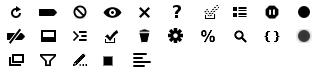
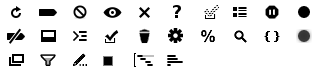
Web Inspector: make 'glue asynchronous events' optional. https://bugs.webkit.org/show_bug.cgi?id=79240
Reviewed by Yury Semikhatsky.

* English.lproj/localizedStrings.js:
* inspector/front-end/Images/statusbarButtonGlyphs.png:
* inspector/front-end/TimelinePanel.js:
(WebInspector.TimelinePanel.prototype.get statusBarItems):
(WebInspector.TimelinePanel.prototype._createStatusbarButtons):
(WebInspector.TimelinePanel.prototype._glueParentButtonClicked):
(WebInspector.TimelinePanel.prototype._toggleStartAtZeroButtonClicked):
(WebInspector.TimelinePanel.prototype._repopulateRecords):
(WebInspector.TimelinePanel.prototype._findParentRecord):
(WebInspector.TimelinePanel.prototype._innerAddRecordToTimeline):
(WebInspector.TimelinePanel.prototype.sidebarResized):
(WebInspector.TimelineCalculator.prototype.computeBarGraphPercentages):
(WebInspector.TimelineCalculator.prototype.computeBarGraphWindowPosition):
(WebInspector.TimelineRecordGraphRow):
(WebInspector.TimelineRecordGraphRow.prototype.update):
(WebInspector.TimelinePanel.FormattedRecord.prototype._calculateAggregatedStats):
* inspector/front-end/timelinePanel.css:
(.glue-async-status-bar-item .glyph):
(.timeline-start-at-zero-status-bar-item .glyph):

git-svn-id: svn://svn.chromium.org/blink/trunk@108507 bbb929c8-8fbe-4397-9dbb-9b2b20218538

diff --git a/Source/WebCore/inspector/front-end/TimelinePanel.js b/Source/WebCore/inspector/front-end/TimelinePanel.js
@@ -203,10 +203,12 @@ WebInspector.TimelinePanel.prototype = {
 
     get statusBarItems()
     {
-        var statusBarItems = [ this.toggleFilterButton.element, this.toggleTimelineButton.element ];
+        var statusBarItems = [ this.toggleFilterButton.element, this.toggleTimelineButton.element, this.clearButton.element, this.garbageCollectButton.element, this._glueParentButton.element ];
+
         if (WebInspector.experimentsSettings.timelineStartAtZero.isEnabled())
             statusBarItems.push(this.toggleStartAtZeroButton.element);
-        statusBarItems.push(this.garbageCollectButton.element, this.clearButton.element, this.statusBarFilters);
+
+        statusBarItems.push(this.statusBarFilters);
         return statusBarItems;
     },
 
@@ -270,6 +272,10 @@ WebInspector.TimelinePanel.prototype = {
 
         this.recordsCounter = document.createElement("span");
         this.recordsCounter.className = "timeline-records-counter";
+
+        this._glueParentButton = new WebInspector.StatusBarButton(WebInspector.UIString("Glue asynchronous events to causes"), "glue-async-status-bar-item");
+        this._glueParentButton.toggled = true;
+        this._glueParentButton.addEventListener("click", this._glueParentButtonClicked, this);
 
         this.statusBarFilters = document.createElement("div");
         this.statusBarFilters.className = "status-bar-items";
@@ -456,16 +462,28 @@ WebInspector.TimelinePanel.prototype = {
         ProfilerAgent.collectGarbage();
     },
 
+    _glueParentButtonClicked: function()
+    {
+        this._glueParentButton.toggled = !this._glueParentButton.toggled;
+        this._repopulateRecords();
+    },
+
     _toggleStartAtZeroButtonClicked: function()
     {
         var toggled = !this.toggleStartAtZeroButton.toggled
+        this._glueParentButton.disabled = toggled;
         this.toggleStartAtZeroButton.toggled = toggled;
         this._calculator = toggled ? new WebInspector.TimelineStartAtZeroCalculator() : new WebInspector.TimelineCalculator();
+        this._repopulateRecords();
+        this._overviewPane.setStartAtZero(toggled);
+    },
+
+    _repopulateRecords: function()
+    {
         this._resetPanel();
         var records = this._model.records;
         for (var i = 0; i < records.length; ++i)
             this._innerAddRecordToTimeline(records[i], this._rootRecord);
-        this._overviewPane.setStartAtZero(toggled);
         this._scheduleRefresh(false);
     },
 
@@ -485,6 +503,9 @@ WebInspector.TimelinePanel.prototype = {
 
     _findParentRecord: function(record)
     {
+        if (!this._glueParentButton.toggled)
+            return null;
+
         var recordTypes = WebInspector.TimelineAgent.RecordType;
         var parentRecord;
         if (record.type === recordTypes.ResourceReceiveResponse ||
@@ -559,7 +580,6 @@ WebInspector.TimelinePanel.prototype = {
             record = formattedRecord;
             do {
                 var parent = record.parent;
-                parent._cpuTime += formattedRecord._cpuTime;
                 if (parent._lastChildEndTime < record._lastChildEndTime)
                     parent._lastChildEndTime = record._lastChildEndTime;
                 for (var category in formattedRecord._aggregatedStats)
@@ -582,7 +602,7 @@ WebInspector.TimelinePanel.prototype = {
         this._scheduleRefresh(false);
         this._overviewPane.sidebarResized(width);
         // Min width = <number of buttons on the left> * 31
-        this.statusBarFilters.style.left = Math.max(9 * 31, width) + "px";
+        this.statusBarFilters.style.left = Math.max((this.statusBarItems.length + 2) * 31, width) + "px";
 
         if (this._memoryStatistics)
             this._memoryStatistics.setSidebarWidth(width);
@@ -910,8 +930,7 @@ WebInspector.TimelineCalculator.prototype = {
         var start = (record.startTime - this.minimumBoundary) / this.boundarySpan * 100;
         var end = (record.startTime + record._selfTime - this.minimumBoundary) / this.boundarySpan * 100;
         var endWithChildren = (record._lastChildEndTime - this.minimumBoundary) / this.boundarySpan * 100;
-        var cpuWidth = record._cpuTime / this.boundarySpan * 100;
-        return {start: start, end: end, endWithChildren: endWithChildren, cpuWidth: cpuWidth};
+        return {start: start, end: end, endWithChildren: endWithChildren};
     },
 
     computeBarGraphWindowPosition: function(record, clientWidth)
@@ -924,10 +943,9 @@ WebInspector.TimelineCalculator.prototype = {
         var left = percentages.start / 100 * workingArea;
         var width = (percentages.end - percentages.start) / 100 * workingArea + minWidth;
         var widthWithChildren =  (percentages.endWithChildren - percentages.start) / 100 * workingArea;
-        var cpuWidth = percentages.cpuWidth / 100 * workingArea + minWidth;
         if (percentages.endWithChildren > percentages.end)
             widthWithChildren += borderWidth + minWidth;
-        return {left: left, width: width, widthWithChildren: widthWithChildren, cpuWidth: cpuWidth};
+        return {left: left, width: width, widthWithChildren: widthWithChildren};
     },
 
     calculateWindow: function()
@@ -1106,11 +1124,6 @@ WebInspector.TimelineRecordGraphRow = function(graphContainer, scheduleRefresh)
     this._barWithChildrenElement.row = this;
     this._barAreaElement.appendChild(this._barWithChildrenElement);
 
-    this._barCpuElement = document.createElement("div");
-    this._barCpuElement.className = "timeline-graph-bar cpu"
-    this._barCpuElement.row = this;
-    this._barAreaElement.appendChild(this._barCpuElement);
-
     this._barElement = document.createElement("div");
     this._barElement.className = "timeline-graph-bar";
     this._barElement.row = this;
@@ -1132,8 +1145,6 @@ WebInspector.TimelineRecordGraphRow.prototype = {
         this._barWithChildrenElement.style.width = barPosition.widthWithChildren + "px";
         this._barElement.style.left = barPosition.left + expandOffset + "px";
         this._barElement.style.width =  barPosition.width + "px";
-        this._barCpuElement.style.left = barPosition.left + expandOffset + "px";
-        this._barCpuElement.style.width = barPosition.cpuWidth + "px";
         this._expandElement._update(record, index, barPosition);
     },
 
@@ -1376,7 +1387,6 @@ WebInspector.TimelinePanel.FormattedRecord.prototype = {
         this._aggregatedStats = {};
         for (var category in categories)
             this._aggregatedStats[category] = 0;
-        this._cpuTime = this._selfTime;
 
         if (this._children) {
             for (var index = this._children.length; index; --index) {
@@ -1384,8 +1394,6 @@ WebInspector.TimelinePanel.FormattedRecord.prototype = {
                 for (var category in categories)
                     this._aggregatedStats[category] += child._aggregatedStats[category];
             }
-            for (var category in this._aggregatedStats)
-                this._cpuTime += this._aggregatedStats[category];
         }
         this._aggregatedStats[this.category.name] += this._selfTime;
     },

diff --git a/Source/WebCore/English.lproj/localizedStrings.js b/Source/WebCore/English.lproj/localizedStrings.js
@@ -634,3 +634,4 @@
 localizedStrings["Show previous page."] = "Show previous page.";
 localizedStrings["Show next page."] = "Show next page.";
 localizedStrings["Start from key"] = "Start from key";
+localizedStrings["Glue asynchronous events to causes"] = "Glue asynchronous events to causes";

diff --git a/Source/WebCore/inspector/front-end/timelinePanel.css b/Source/WebCore/inspector/front-end/timelinePanel.css
@@ -353,10 +353,6 @@
     opacity: 0.2;
 }
 
-.timeline-graph-bar.cpu {
-    opacity: 0.6;
-}
-
 .timeline-graph-side.even {
     background-color: rgba(0, 0, 0, 0.05);
 }
@@ -455,8 +451,12 @@
     -webkit-mask-position: -128px -24px;
 }
 
-.timeline-start-at-zero-status-bar-item .glyph {
+.glue-async-status-bar-item .glyph {
     -webkit-mask-position: -128px -48px;
+}
+
+.timeline-start-at-zero-status-bar-item .glyph {
+    -webkit-mask-position: -160px -48px;
 }
 
 .timeline-start-at-zero-status-bar-item.toggled-on .glyph {
